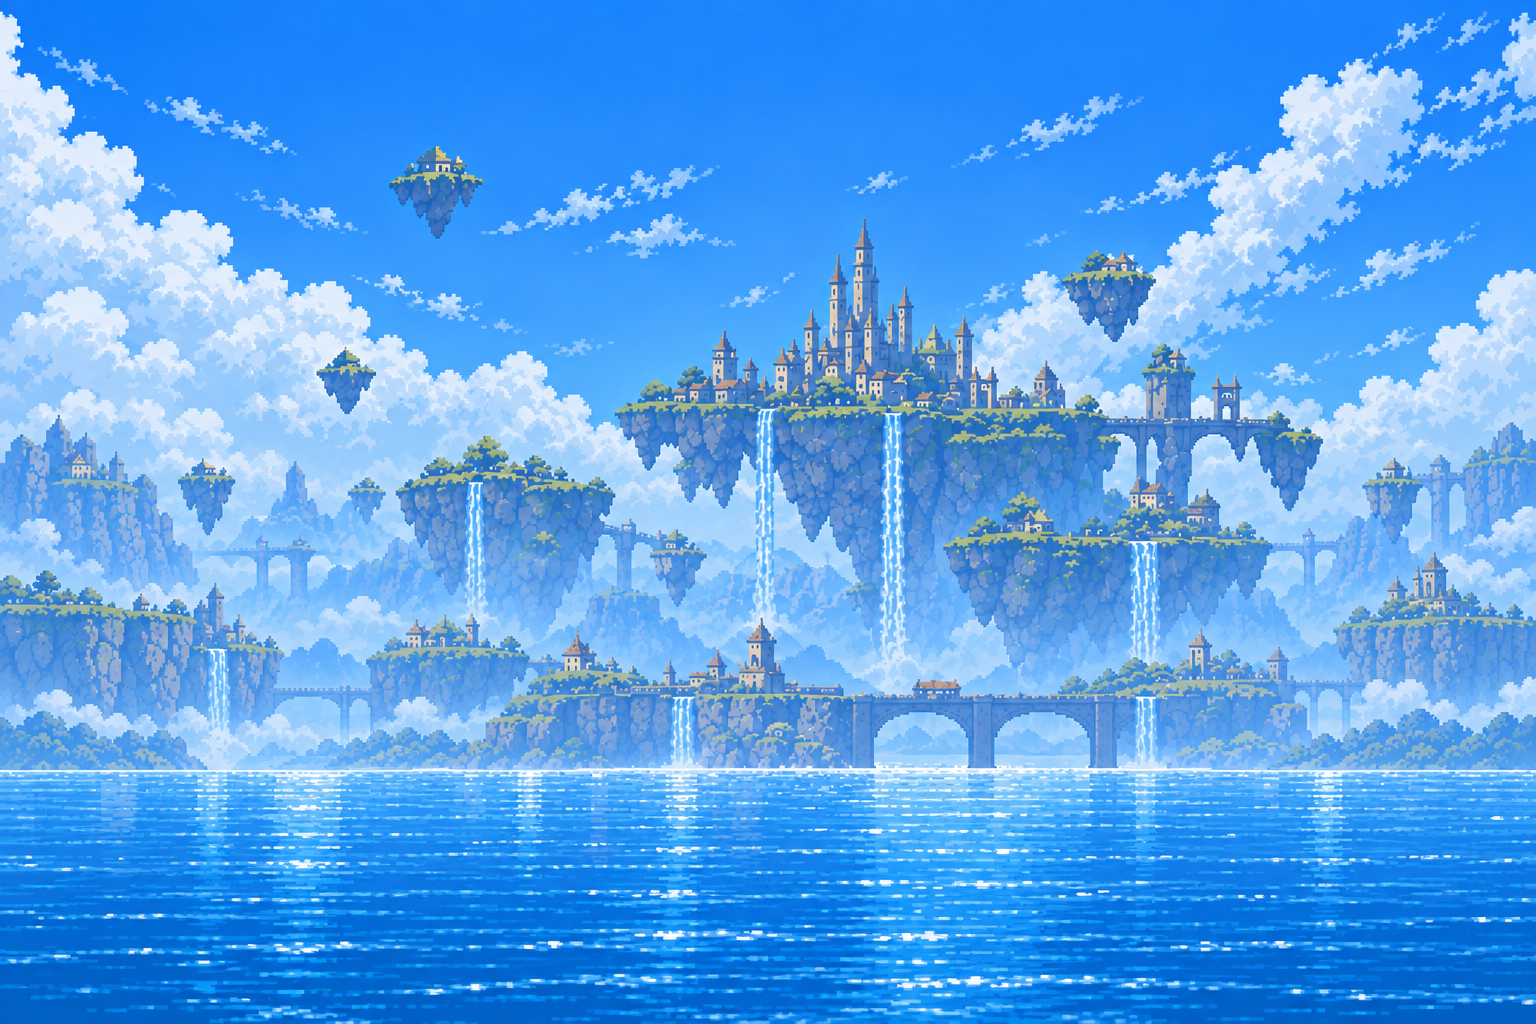
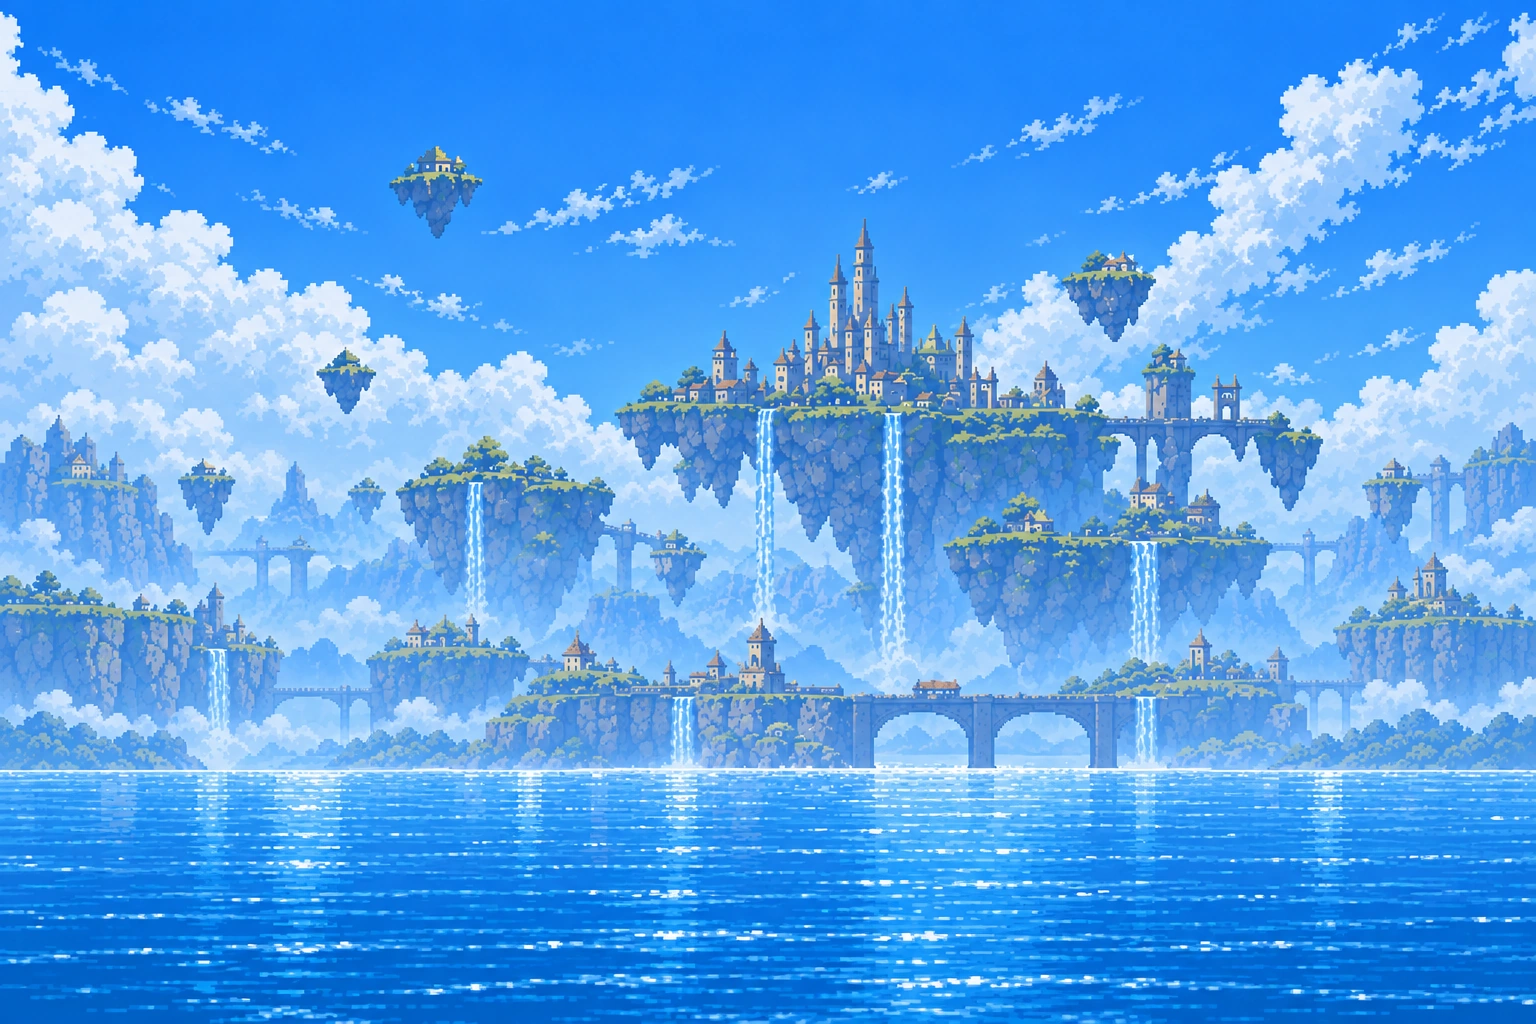
perf(2d): タイトル初期転送を2MB以下へ削減

diff --git a/apps/e2e/production-tests/entry.spec.ts b/apps/e2e/production-tests/entry.spec.ts
@@ -17,6 +17,12 @@ test("production root opens KEROPOD and practice with real assets", async ({ pag
   await expect.poll(() => logo.evaluate(image => (image as HTMLImageElement).naturalWidth)).toBe(1536);
   await expect(page.getByText("2Dプレビュー", { exact: true })).toHaveCount(0);
   expect(await page.evaluate(() => (window as Window & { webglRequests?: number }).webglRequests)).toBe(0);
+  await page.waitForLoadState("networkidle");
+  const initialBytes = await page.evaluate(() => [...performance.getEntriesByType("navigation"), ...performance.getEntriesByType("resource")].reduce((total, entry) => total + (entry as PerformanceResourceTiming).encodedBodySize, 0));
+  console.info(`Cold title encoded transfer: ${initialBytes} bytes`);
+  expect(initialBytes).toBeGreaterThan(0);
+  expect(initialBytes).toBeLessThanOrEqual(2_000_000);
+  await test.info().attach("title-transfer.json", { body: JSON.stringify({ initialBytes }), contentType: "application/json" });
   await page.getByRole("button", { name: "はじめる", exact: true }).click();
   await expect(page.getByRole("button", { name: "オンライン対戦", exact: true })).toBeVisible();
   await expect(page.locator(".world-machine svg").first()).toBeVisible();

diff --git a/scripts/assets/encode-world.py b/scripts/assets/encode-world.py
@@ -1,9 +1,9 @@
-"""Encode runtime artwork losslessly; preserve original pixels and provenance."""
+"""Encode runtime artwork with explicit per-asset fidelity and provenance."""
 import argparse
 import hashlib
 import json
 from pathlib import Path
-from PIL import Image
+from PIL import Image, ImageChops, ImageStat
 
 ROOT = Path(__file__).resolve().parents[2]
 FILES = {
@@ -33,16 +33,21 @@ def run(check):
         original = ROOT / "assets/workbench" / source
         output = target / f"{name}.webp"
         image = Image.open(original).convert("RGBA")
+        lossy = name in {"background", "button"}
+        encoding = "webp-q94" if lossy else "lossless-webp-exact-rgba"
         if not check:
-            image.save(output, "WEBP", lossless=True, exact=True, method=6)
+            image.save(output, "WEBP", quality=94 if lossy else 80, lossless=not lossy, exact=True, method=6)
         decoded = Image.open(output).convert("RGBA")
-        if image.size != decoded.size or image.tobytes() != decoded.tobytes():
-            raise ValueError(f"Pixel mismatch: {name}")
+        if image.size != decoded.size or image.getchannel("A").tobytes() != decoded.getchannel("A").tobytes():
+            raise ValueError(f"Dimensions/alpha mismatch: {name}")
+        rms = ImageStat.Stat(ImageChops.difference(image, decoded)).rms
+        if (lossy and max(rms) > 6) or (not lossy and image.tobytes() != decoded.tobytes()):
+            raise ValueError(f"Pixel fidelity mismatch: {name}: {rms}")
         records.append({"id": name, "source": str(original.relative_to(ROOT)),
-                        "file": output.name, "sourceSha256": digest(original),
+                        "encoding": encoding, "channelRms": rms, "file": output.name, "sourceSha256": digest(original),
                         "sha256": digest(output), "size": list(image.size),
                         "sourceBytes": original.stat().st_size, "bytes": output.stat().st_size})
-    manifest = {"version": 1, "encoding": "lossless-webp-exact-rgba", "assets": records}
+    manifest = {"version": 2, "encoding": "per-asset-webp", "assets": records}
     path = target / "manifest.json"
     if check:
         if json.loads(path.read_text()) != manifest:
@@ -51,7 +56,7 @@ def run(check):
         path.write_text(json.dumps(manifest, indent=2) + "\n")
     before = sum(item["sourceBytes"] for item in records)
     after = sum(item["bytes"] for item in records)
-    print(f"Verified {len(records)} exact RGBA images: {before} -> {after} bytes ({100 * (1 - after / before):.1f}% smaller)")
+    print(f"Verified {len(records)} fidelity-checked images: {before} -> {after} bytes ({100 * (1 - after / before):.1f}% smaller)")
 
 
 if __name__ == "__main__":

diff --git a/docs/progress/completion-2026-09-10.md b/docs/progress/completion-2026-09-10.md
@@ -356,3 +356,11 @@ heartbeatはUI共同調整時にPAUSED。本ゴールは現在のタスクで進
 - 共通PixelPanelを戦闘画面と同じ濃紺のSVG金属枠へ統一。ロビー/設定/部屋画面の文字を明色にし、見出し・機体プレビュー・リザルト説明も青灰色の縁へ統一。主要ボタンの黄色と入力面の明色を保持。
 - world4画面サイズ＋地形の5件、オンラインPC/touchの部屋準備・射撃・再接続・再準備の1件が通過。1440pxロビーと667px設定で背景上の可読性を目視確認。diff check通過。
 - 背景/原案との全体比較、転送量最適化、最終検証と公開前判断事項の整理は継続。
+
+## タイトル初期転送量の目標達成
+
+- cold browserのnavigation/resource encodedBodySize合計に2,000,000B上限を設定し、旧素材で3,804,217Bの失敗を確認。背景と共通ボタンをWebP quality94へ変更。元PNG保持、寸法/alpha完全一致、RGB各RMS6/255以下をPythonで実検証。残り9素材は従来byte列を維持。
+- manifest v2で素材別encoding/画素誤差を記録。Nodeはhash/容量/記録を検証し、Python checkで画素差を再計算する。背景/ボタンを画像表示でレビュー。
+- 最終設定の配信build初期転送1,861,003Bで上限通過。cold cache相当の新ブラウザーcontext、ローカルpreviewのencoded body合計であり、実地域の起動時間を保証しない。
+- production全11 E2E通過後、可逆素材のencode設定を従来へ戻して差分を絞り、入口/転送/練習のテストを再実行して通過。e2e TypeScript、assets:check、Python fidelity check、diff check通過。
+- 次は最初の対戦までの累計8MBと残要件の最終照合。人間の最終アート承認/実環境SLO/公開運用判断は未完を維持。

diff --git a/assets/runtime/world-v1/README.md b/assets/runtime/world-v1/README.md
@@ -1,10 +1,12 @@
 # Runtime world artwork
 
-`assets/workbench`の生成PNGを配信用に可逆圧縮したもの。構図・寸法・透明度・RGBA画素は変更しない。
 元PNGと生成記録はworkbenchに保持する。最終デザイン承認やsprite packの承認を意味しない。
+背景と共通ボタンはWebP quality 94、それ以外は可逆WebP。構図・寸法・alphaは変更しない。
+非可逆の2素材はRGB各チャンネルのRMS誤差6/255以下、alpha完全一致を検証する。
+他の9素材はRGBA完全一致。これは画質の自動承認ではなく、表示比較も必要。
 
 再生成: `python3 scripts/assets/encode-world.py`
 検証: `python3 scripts/assets/encode-world.py --check`
 依存: Python 3、Pillow（WebP対応）。`scripts/assets/requirements.txt`を参照。
-manifestは元/出力SHA-256、寸法、容量を記録する。検証はRGBAの完全一致とmanifest一致を確認する。
-アート変更時は元PNGを更新後に再生成し、ゲーム内で表示を確認する。
+manifest v2は元/出力SHA-256、寸法、容量、素材ごとのencodingと画素誤差を記録する。
+Nodeのassets:checkはhash/容量/誤差記録を確認し、Pythonのcheckは実際の画素差を再計算する。

diff --git a/assets/workbench/world-ui-final/README.md b/assets/workbench/world-ui-final/README.md
@@ -7,4 +7,4 @@
 - Brief: background-only, crisp pixel art; blue sky, distant floating stone islands, ivory castle, thin bridges, waterfalls and a low water horizon. Atmospheric cool colors so yellow tanks remain distinct. No UI, text, characters, tanks, projectiles or foreground destructible platforms.
 - Original generation: `exec-12163271-ffae-46da-a90f-ed5b121502f6.png`.
 - AI visual review: the generated image follows the reference environment and excludes gameplay/UI elements. Human final approval remains pending.
-- Runtime encoding: `scripts/assets/encode-world.py`, lossless WebP with exact RGBA verification. Previous background sources are retained.
+- Runtime encoding: `scripts/assets/encode-world.py`, WebP quality 94 with exact alpha/dimensions and RGB RMS error checks. Previous background sources are retained.
